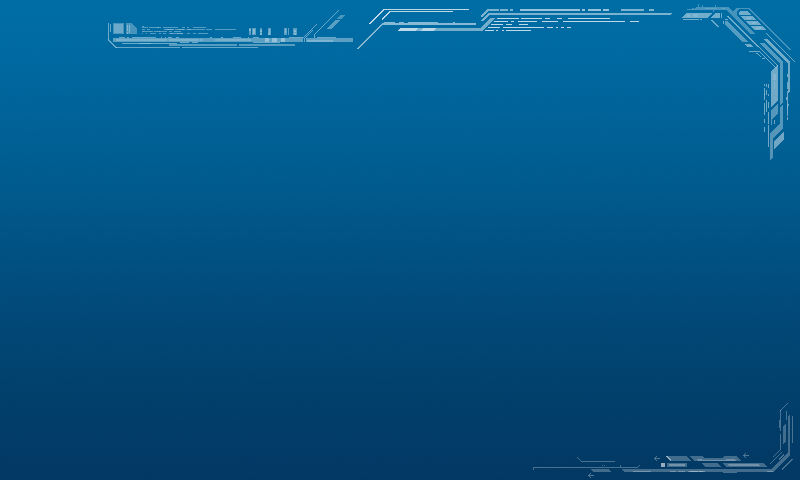
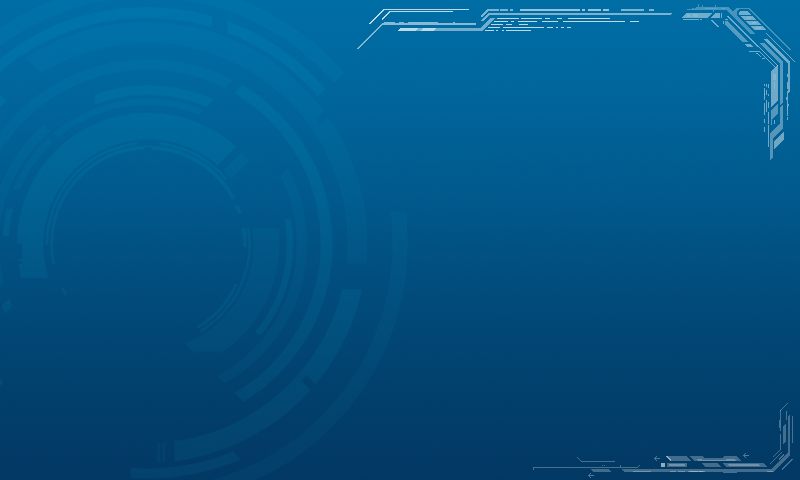
Collisions, GFX, Speed changes and much more!

Changed region(s): [[0.125, 0.0312, 0.4375, 0.125]]

diff --git a/jmbreakout/src/ball.cpp b/jmbreakout/src/ball.cpp
@@ -1,48 +1,85 @@
 #include "ball.h"
 #include "breakout.h"
+#include "paddle.h"
 
 Ball::Ball()
 {
     pos = Vector2D();
-    pos.x = 10;
-    pos.y = 10;
-    color =  QColor(qrand() % 256, qrand() % 256, qrand() % 256);
+    pos.x = 400;
+    pos.y = 230;
     speed = Vector2D();
-    speed.x = 1;
+    speed.x = 0;
     speed.y = 1;
-    size = 10;
-    setRect(0,0,size*2,size*2);
+    size = 20;
+    setRect(0,0,size,size);
 
 }
 
 void Ball::advance(int step)
 {
-   if(!step) return;
+    if(!step) {
+       // Collision
+       if(!scene()->collidingItems(this).isEmpty()) {
+            handleCollision();
+        } else {
+
+           // demo
+           if(pos.x + size/2 > Breakout::get_w() || pos.x < 0 ) {
+               speed.x *= -1;
+           }
+           if(pos.y + size/2 > Breakout::get_h() || pos.y < 0) {
+               speed.y *= -1;
+           }
+        }
+        return;
+    }
    pos += speed;
-   // demo
-   if(pos.x > Breakout::get_w() ||pos.x < 0 ) {
-       speed.x *= -1;
-   }
-
-   if(pos.y > Breakout::get_h() || pos.y < 0){
-       speed.y *= -1;
-   }
-
    //qDebug() << "x" << pos.x << "y" << pos.y;
    setPos(QPointF(pos.x, pos.y));
 }
 
 void Ball::paint(QPainter * painter, const QStyleOptionGraphicsItem * option, QWidget *)
 {
-    painter->setBrush(color);
-    painter->drawEllipse(0, 0, size, size);
     //qDebug() << "x" << pos.x << "y" << pos.y;
+    painter->drawPixmap(0,0,QPixmap(":/images/ball.png"));
+
+    //hitbox
+    painter->drawRect(rect());
 }
 
 QRectF Ball::boundingRect() const
 {
-    qDebug() << rect();
-    //return QRectF(0, 0, size, size);
-
     return rect();
+}
+
+void Ball::handleCollision() {
+    QList <QGraphicsItem *> collision_list = scene()->collidingItems(this);
+
+    // Determine which side was hit
+    Paddle* p = (Paddle*)collision_list.first();
+    QRectF c_size = collision_list.first()->boundingRect();
+    QPointF c_pos = collision_list.first()->pos();
+
+    if((pos.y + size) == c_pos.y()) {
+        //qDebug() << "paddle ylälaita, pallon alalaita";
+        speed.y *= -1;
+    } else if(pos.y == (c_pos.y() + c_size.height())) {
+        //qDebug() << "paddle alalaita, pallon ylälaitalaita";
+        speed.y *= -1;
+    }
+
+    if(pos.x == (c_pos.x() + c_size.width())) {
+        //qDebug() << "paddle oikea laita, pallon vasen laita";
+
+        qDebug() << (pos.x + (size/2)) << c_pos.x() << c_size.width();
+        p->getDirection() ? speed.x -= p->getSpeed() : speed.x += p->getSpeed();
+        speed.x *= -1;
+
+    } else if((pos.x + size)== c_pos.x()) {
+        //qDebug() << "paddle vasen laita, pallon oikea laita";
+        qDebug() << (pos.x + size) << c_pos.x() << c_size.width();
+        p->getDirection() ? speed.x += p->getSpeed() : speed.x -= p->getSpeed();
+        speed.x *= -1;
+    }
+
 }

diff --git a/jmbreakout/src/paddle.cpp b/jmbreakout/src/paddle.cpp
@@ -2,19 +2,30 @@
 #include "breakout.h"
 
 Paddle::Paddle()
-        : speed(0.0), width(60.0)
+        : speed(1.0), width(60.0)
 {
-    setRect(QRectF(0,0, width, 20));
+    setRect(QRectF(0,0, width, 10));
     setPos(QPointF(400, 400));
 }
 
 void Paddle::advance(int)
 {
-    setPos(QPointF(Breakout::read_acc() + 400, 400));
+    //setPos(QPointF(Breakout::read_acc() + 400, 400));
+    setPos(QPointF(400, 400));
 }
 
 void Paddle::paint(QPainter * painter, const QStyleOptionGraphicsItem *, QWidget *)
 {
-    painter->drawRect(-width/2, 0, width, 20);
-}
+    painter->drawPixmap(0, 0, QPixmap(":images/paddle.png"));
 
+    //hitbox
+    painter->drawRect(rect());
+}
+double Paddle::getSpeed() {
+    return speed;
+}
+bool Paddle::getDirection() {
+    // maybe some day..
+    //return direction;
+    return true;
+}

diff --git a/jmbreakout/src/qtmain.cpp b/jmbreakout/src/qtmain.cpp
@@ -17,12 +17,10 @@
      Ball ball;
      breakout.addItem(&ball);
 
-     Paddle* paddle = new Paddle();
-     breakout.addItem((QGraphicsRectItem*) paddle);
+     breakout.addPaddle(new Paddle());
 
 
      QGraphicsView view(&breakout);
-     view.setRenderHint(QPainter::Antialiasing);
      view.setBackgroundBrush(QPixmap(":/images/bg.png"));
      view.setCacheMode(QGraphicsView::CacheBackground);
      view.setViewportUpdateMode(QGraphicsView::BoundingRectViewportUpdate);

diff --git a/jmbreakout/src/breakout.h b/jmbreakout/src/breakout.h
@@ -5,6 +5,7 @@
 #include <QPainter>
 
 #include "vector2d.h"
+#include "paddle.h"
 
 #define AREA_W 800
 #define AREA_H 480
@@ -16,9 +17,11 @@ public:
     static int read_acc();
     static int get_w();
     static int get_h();
-
+    const Paddle & getPaddle();
+    void addPaddle(Paddle *paddle);
 private:
     static int acc_cache;
+    Paddle *paddle;
 };
 
 #endif // BREAKOUT_H

diff --git a/jmbreakout/src/paddle.h b/jmbreakout/src/paddle.h
@@ -9,12 +9,13 @@ class Paddle : public QGraphicsRectItem
 public:
     Paddle();
     void paint(QPainter * painter, const QStyleOptionGraphicsItem * option, QWidget * widget = 0);
-
+    double getSpeed();
+    bool getDirection();
 protected:
     void advance(int phase);
-
 private:
     double speed, width;
+    bool direction;
 };
 
 #endif // PADDLE_H

diff --git a/jmbreakout/src/breakout.cpp b/jmbreakout/src/breakout.cpp
@@ -32,3 +32,12 @@ int Breakout::get_w() {
 int Breakout::get_h() {
     return AREA_H;
 }
+
+void Breakout::addPaddle(Paddle *newPaddle) {
+    paddle = newPaddle;
+    addItem((QGraphicsRectItem*) newPaddle);
+}
+
+const Paddle & Breakout::getPaddle() {
+    return *paddle;
+}

diff --git a/jmbreakout/src/ball.h b/jmbreakout/src/ball.h
@@ -21,7 +21,7 @@ class Ball : public QGraphicsEllipseItem
     protected:
         void advance(int step);
     private:
-        QColor color;
+        void handleCollision();
 
 };
 
